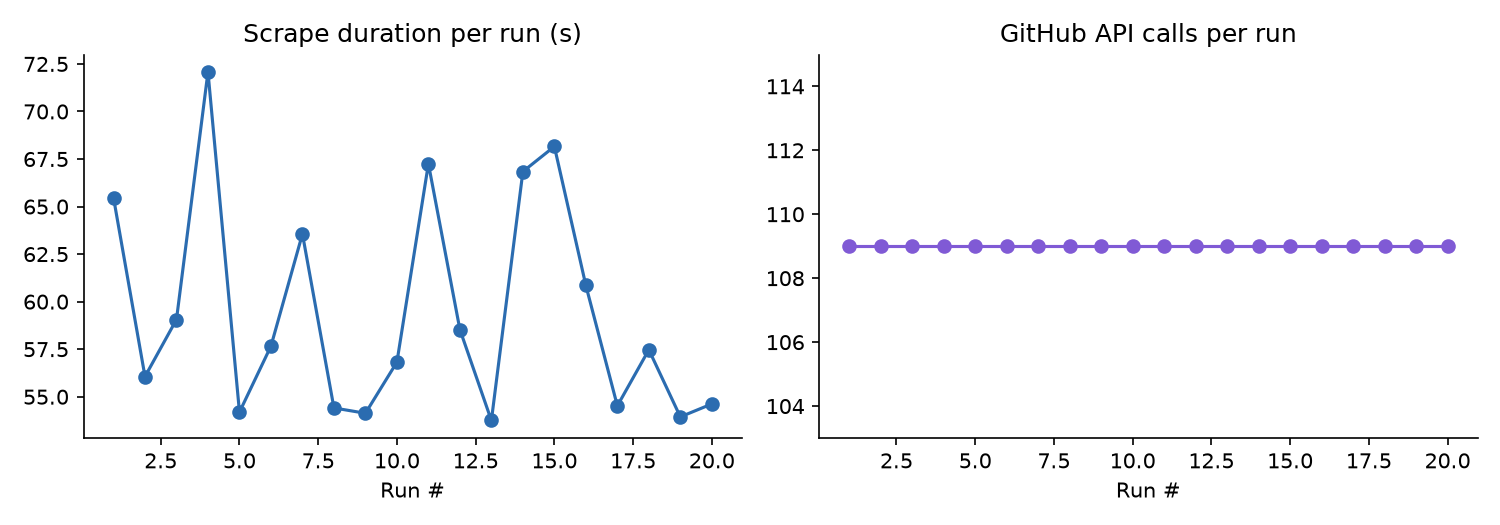
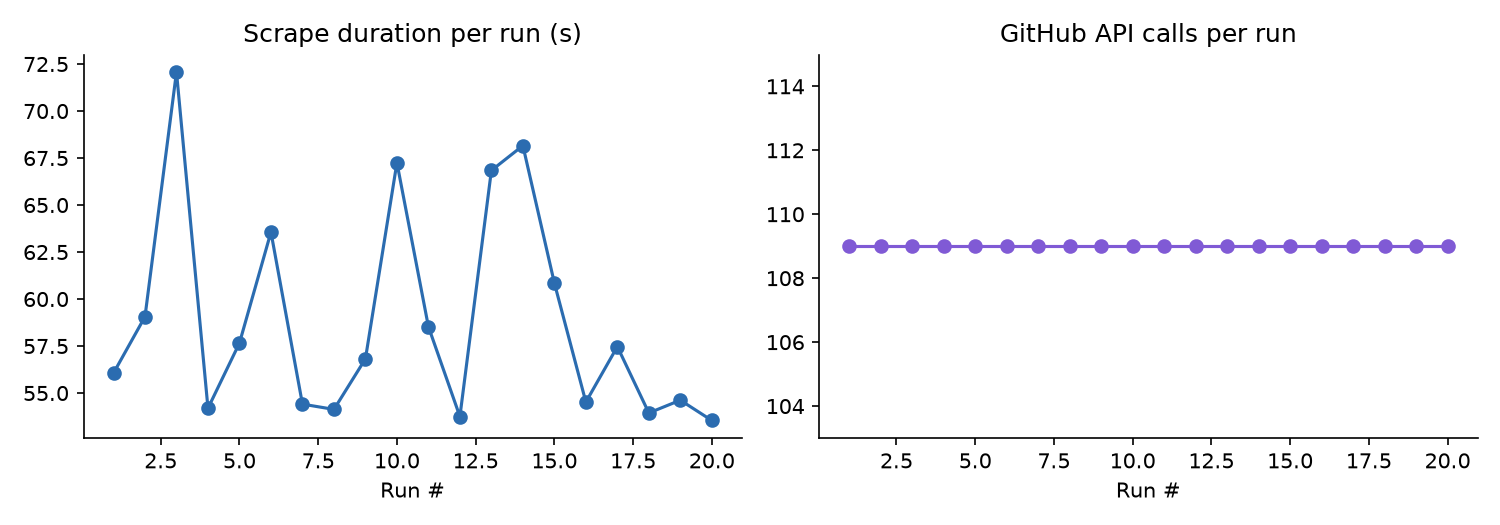
Weekly issue tracker refresh

diff --git a/README.md b/README.md
@@ -81,7 +81,7 @@ See [CONTRIBUTING.md](CONTRIBUTING.md) for the full contributor workflow — inc
 
 <!-- TRACKER:START -->
 
-_Last updated: 2026-08-15 07:39 UTC_
+_Last updated: 2026-08-15 07:58 UTC_
 
 _Tracking **18** upstream repos, **379** relevant open issues._
 
@@ -289,7 +289,7 @@ _Tracking **18** upstream repos, **379** relevant open issues._
 
 <!-- METRICS:START -->
 
-_Last run: 2026-08-15 07:38 UTC, took **54.6s**, **109** GitHub API calls, **4782/5000** rate limit remaining._
+_Last run: 2026-08-15 07:57 UTC, took **53.5s**, **109** GitHub API calls, **4673/5000** rate limit remaining._
 
 ![Scrape metrics trend](assets/metrics_trend.png)
 
